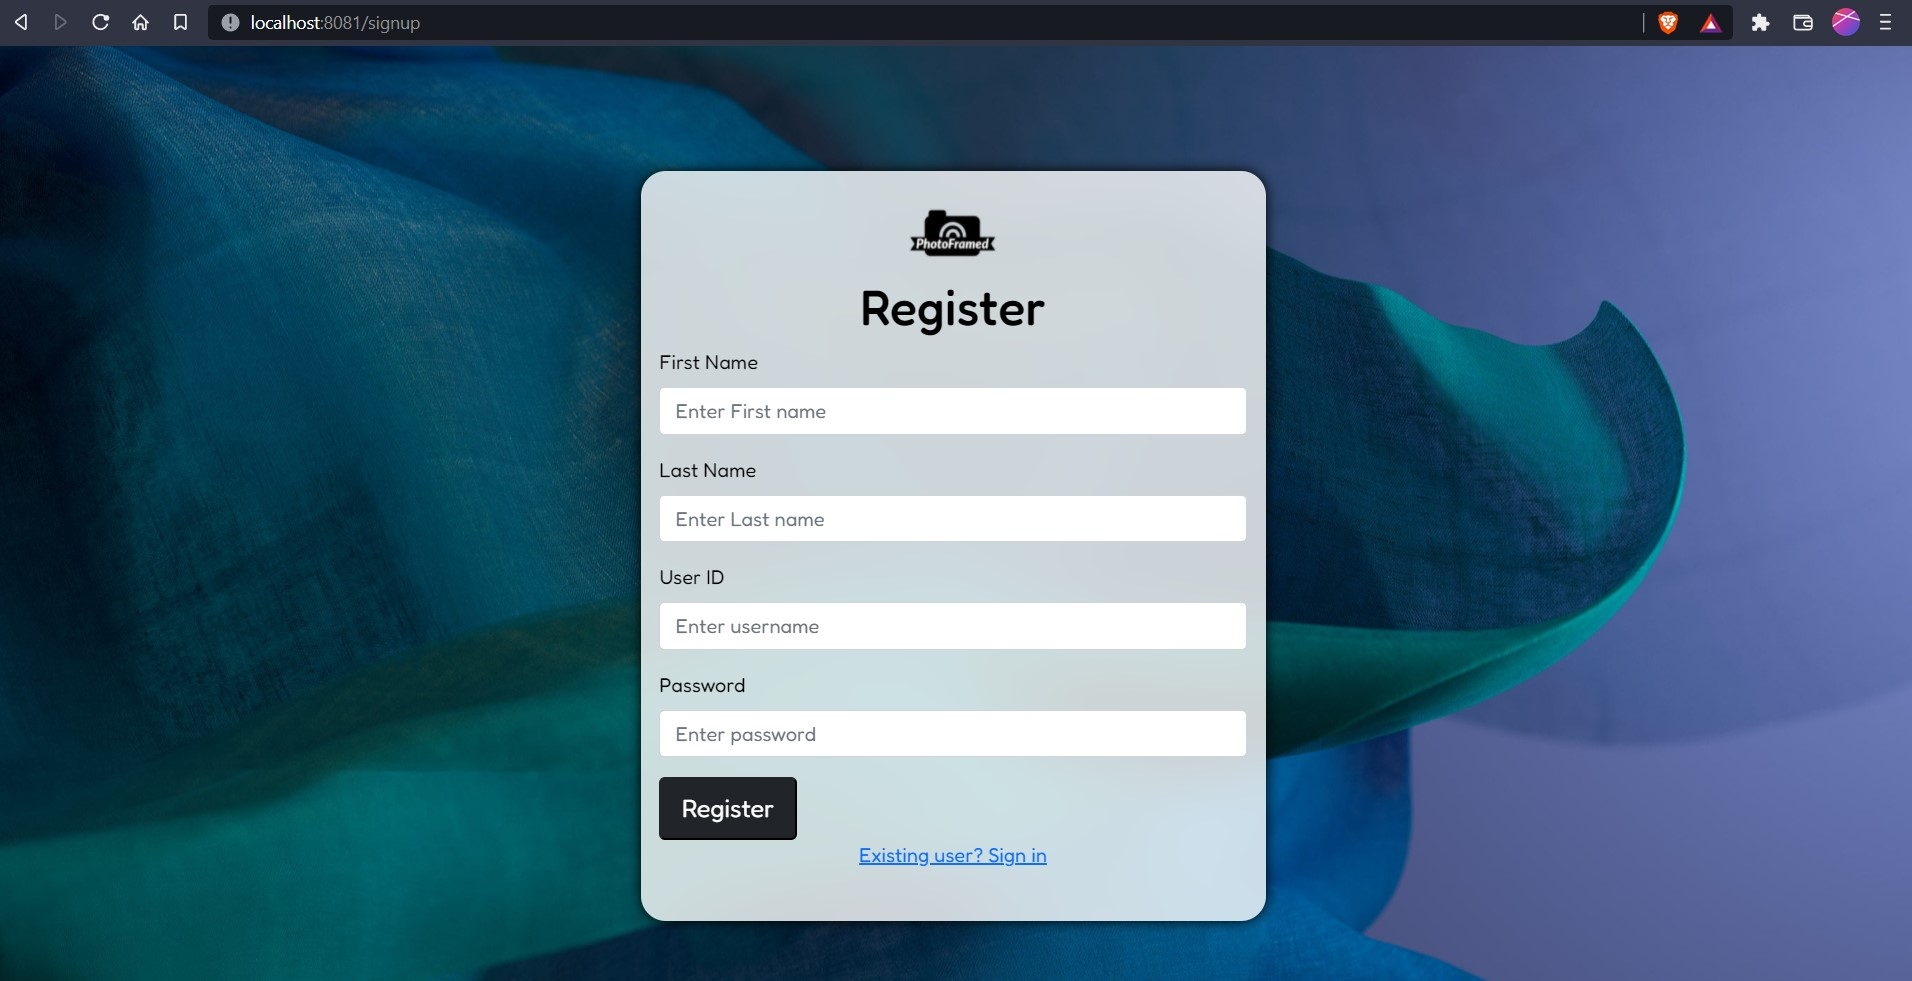
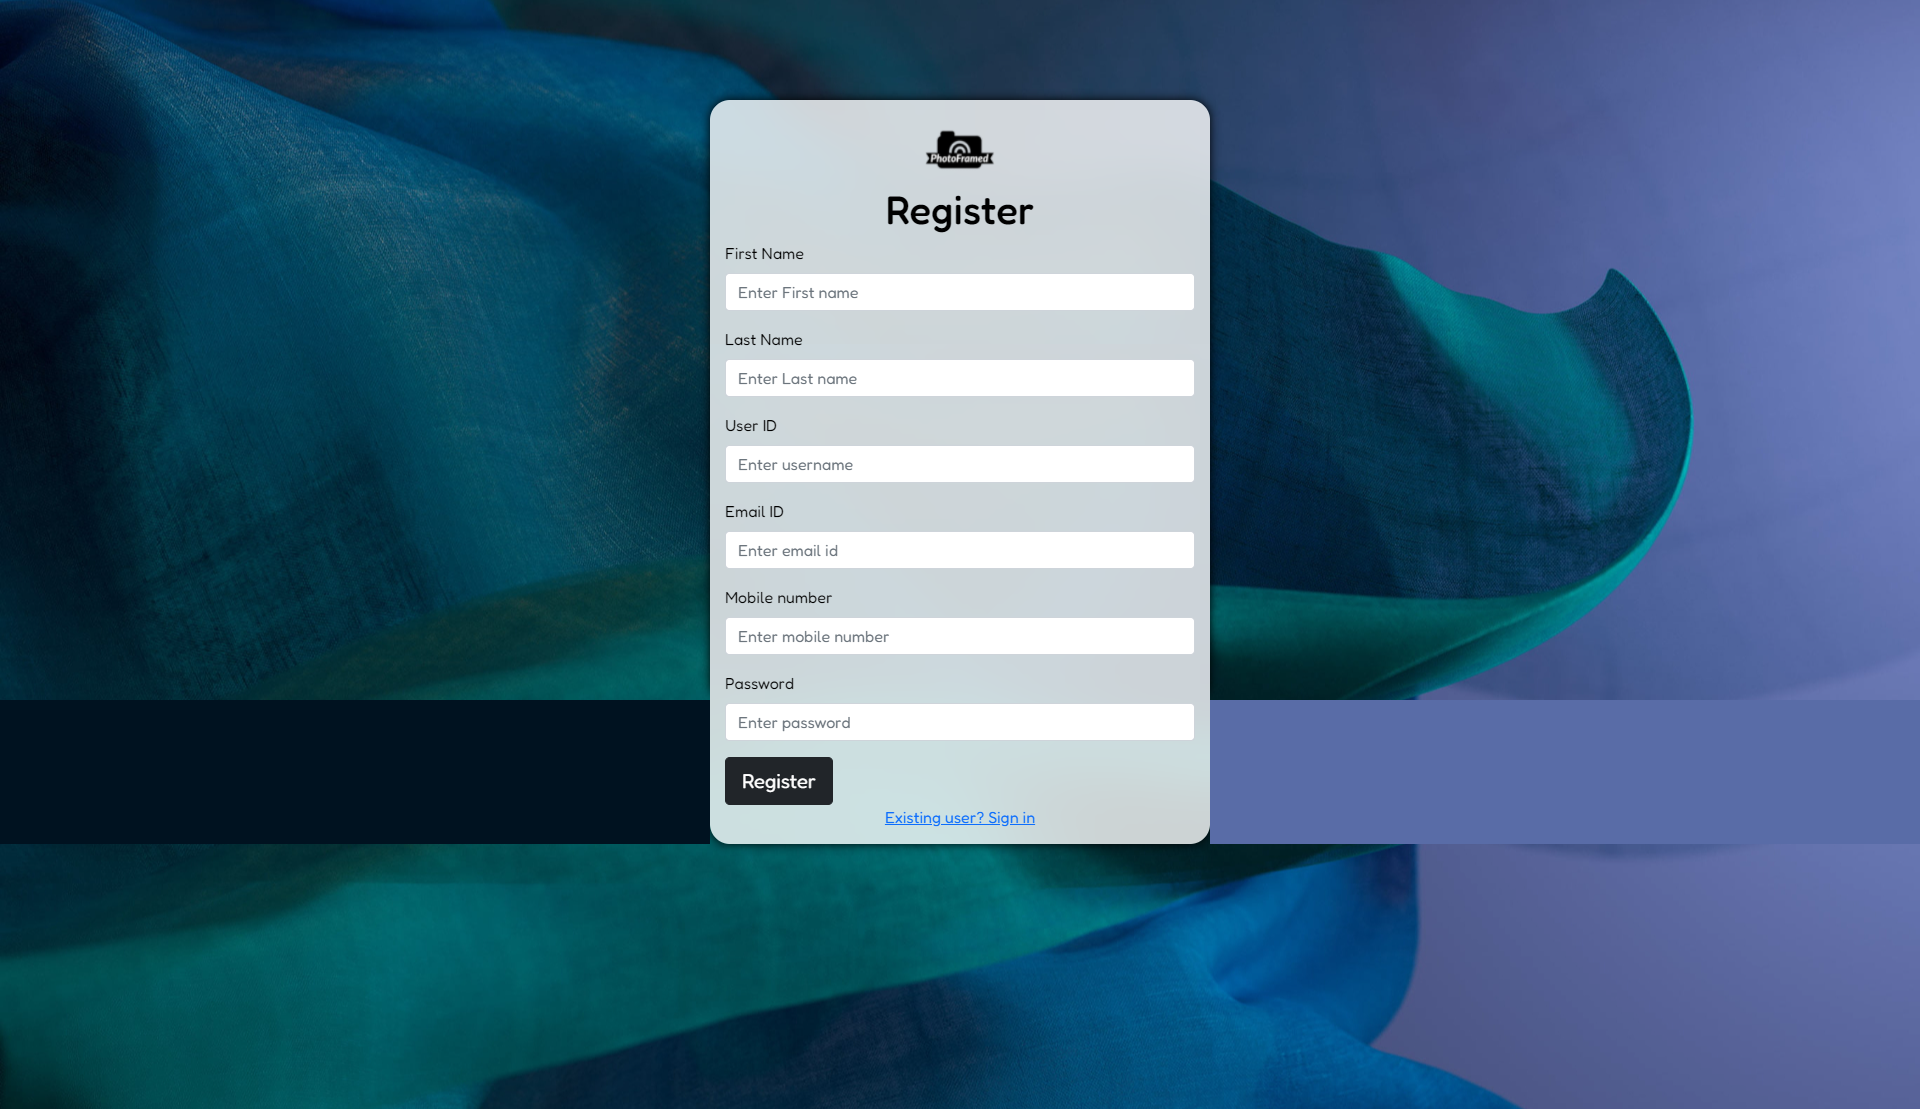
added few register form fields and invisible scrollbar to signup page for FE

diff --git a/reactapp/src/components/Signup.jsx b/reactapp/src/components/Signup.jsx
@@ -1,8 +1,11 @@
-import React from "react";
-import { Form, FormGroup, Label, Input } from "reactstrap";
+import React, { useState } from "react";
+import { Form, FormGroup, Label, Input, Button } from "reactstrap";
 import bgImg from "../images/backgroundimg.jpg";
 import styled from "styled-components";
 import { Link } from "react-router-dom";
+import "./scrollbar.css";
+import "react-toastify/dist/ReactToastify.css";
+import { ToastContainer, toast } from "react-toastify";
 
 //Frombox to style the form
 const Formbox = styled.div`
@@ -20,10 +23,11 @@ const Formbox = styled.div`
   color: rgb(0, 0, 0);
   box-shadow: 0 0 10px;
   position: relative;
-  overflow: hidden;
+  overflow-y: scroll;
   font-family: Fredoka;
   backdrop-filter: blur(20px);
   background-color: rgba(255, 255, 255, 0.8);
+  scrollbar-width: 0px;
 `;
 
 // Container to style and hold Form and logo
@@ -45,10 +49,26 @@ const Formlogo = styled.div`
 `;
 
 function Signup(props) {
+  const [userFirstname, setFirstname] = useState("");
+  const [userLastname, setLastname] = useState("");
+  const [userid, setuserid] = useState("");
+  const [email, setemail] = useState("");
+  const [mobileNumber, setmobileNumber] = useState("");
+  const [password, setpassword] = useState("");
+
+  const handleSubmit = async (e) => {
+    e.preventDefault();
+    if (mobileNumber.length != 10) {
+      alert("Ivalid Phone number");
+    }
+  };
+
+  const notify = () => toast.success("Registered successfully!");
+
   return (
     <div id={props.id}>
       <Container>
-        <Formbox>
+        <Formbox className="scrollbar scrollbar-juicy-peach">
           <Formlogo>
             <img
               src={require("../images/PhotoFramed-logos_black.png")}
@@ -58,32 +78,60 @@ function Signup(props) {
               height={70}
             />
           </Formlogo>
-          <Form className="signup-form">
+          <Form>
             <h1 className="text-center">Register</h1>
             <FormGroup>
               <Label>First Name</Label>
               <Input
-                type="String"
+                type="text"
                 id="userFirstname"
                 placeholder="Enter First name"
+                value={userFirstname}
+                onChange={(e) => setFirstname(e.target.value)}
                 required
               />
             </FormGroup>
             <FormGroup>
               <Label>Last Name</Label>
               <Input
-                type="String"
+                type="text"
                 id="userLastname"
                 placeholder="Enter Last name"
+                value={userLastname}
+                onChange={(e) => setLastname(e.target.value)}
                 required
               />
             </FormGroup>
             <FormGroup>
               <Label>User ID</Label>
               <Input
-                type="String"
+                type="text"
                 id="userid"
                 placeholder="Enter username"
+                value={userid}
+                onChange={(e) => setuserid(e.target.value)}
+                required
+              />
+            </FormGroup>
+            <FormGroup>
+              <Label>Email ID</Label>
+              <Input
+                type="email"
+                id="email"
+                placeholder="Enter email id"
+                value={email}
+                onChange={(e) => setemail(e.target.value)}
+                required
+              />
+            </FormGroup>
+            <FormGroup>
+              <Label>Mobile number</Label>
+              <Input
+                type="number"
+                id="mobileNumber"
+                placeholder="Enter mobile number"
+                value={mobileNumber}
+                onChange={(e) => setmobileNumber(e.target.value)}
                 required
               />
             </FormGroup>
@@ -93,12 +141,18 @@ function Signup(props) {
                 type="password"
                 id="password"
                 placeholder="Enter password"
+                value={password}
+                onChange={(e) => setpassword(e.target.value)}
                 required
               />
             </FormGroup>
-            <button className="btn-lg btn-dark btn-block" id="submitButton">
+            <Button
+              className="btn-lg btn-dark btn-block"
+              id="submitButton"
+              onClick={notify}
+            >
               Register
-            </button>
+            </Button>
             <div className="text-center">
               {/* <a href="/signup">Existing user? Sign in</a> */}
               <Link to="/login">Existing user? Sign in</Link>
@@ -106,6 +160,7 @@ function Signup(props) {
           </Form>
         </Formbox>
       </Container>
+      <ToastContainer autoClose={2000} />
     </div>
   );
 }

diff --git a/reactapp/src/components/scrollbar.css b/reactapp/src/components/scrollbar.css
@@ -1,0 +1,24 @@
+.scrollbar {
+  width: 350px;
+  max-height: 600px;
+  min-width: 500px;
+  display: flex;
+  flex-direction: column;
+  border-radius: 20px;
+  padding: 100px;
+  margin: auto;
+  height: 80%;
+  top: 100px;
+  text-align: left;
+  color: rgb(0, 0, 0);
+  box-shadow: 0 0 10px;
+  position: relative;
+  overflow-y: scroll;
+  font-family: Fredoka;
+  backdrop-filter: blur(20px);
+  background-color: rgba(255, 255, 255, 0.8);
+}
+.scrollbar-juicy-peach::-webkit-scrollbar {
+  width: 0px;
+  background-color: #f5f5f5;
+}
